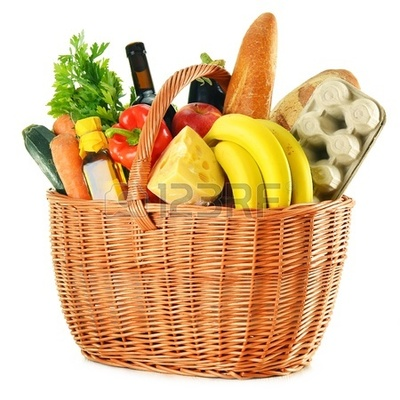
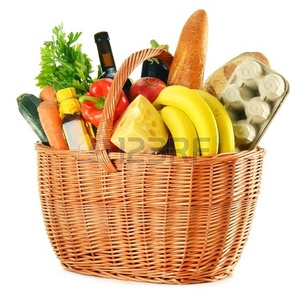
changed image size in paperclip

diff --git a/app/models/category.rb b/app/models/category.rb
@@ -1,5 +1,5 @@
 class Category < ActiveRecord::Base
-  has_attached_file :image, styles: { medium: "200x200#" }
+  has_attached_file :image, styles: { medium: "300x300#" }
   validates_attachment_content_type :image, content_type: /\Aimage\/.*\Z/
 
 end

diff --git a/config/routes.rb b/config/routes.rb
@@ -1,5 +1,6 @@
 Rails.application.routes.draw do
   resources :categories
+  root "categories#index"
   # The priority is based upon order of creation: first created -> highest priority.
   # See how all your routes lay out with "rake routes".
 
